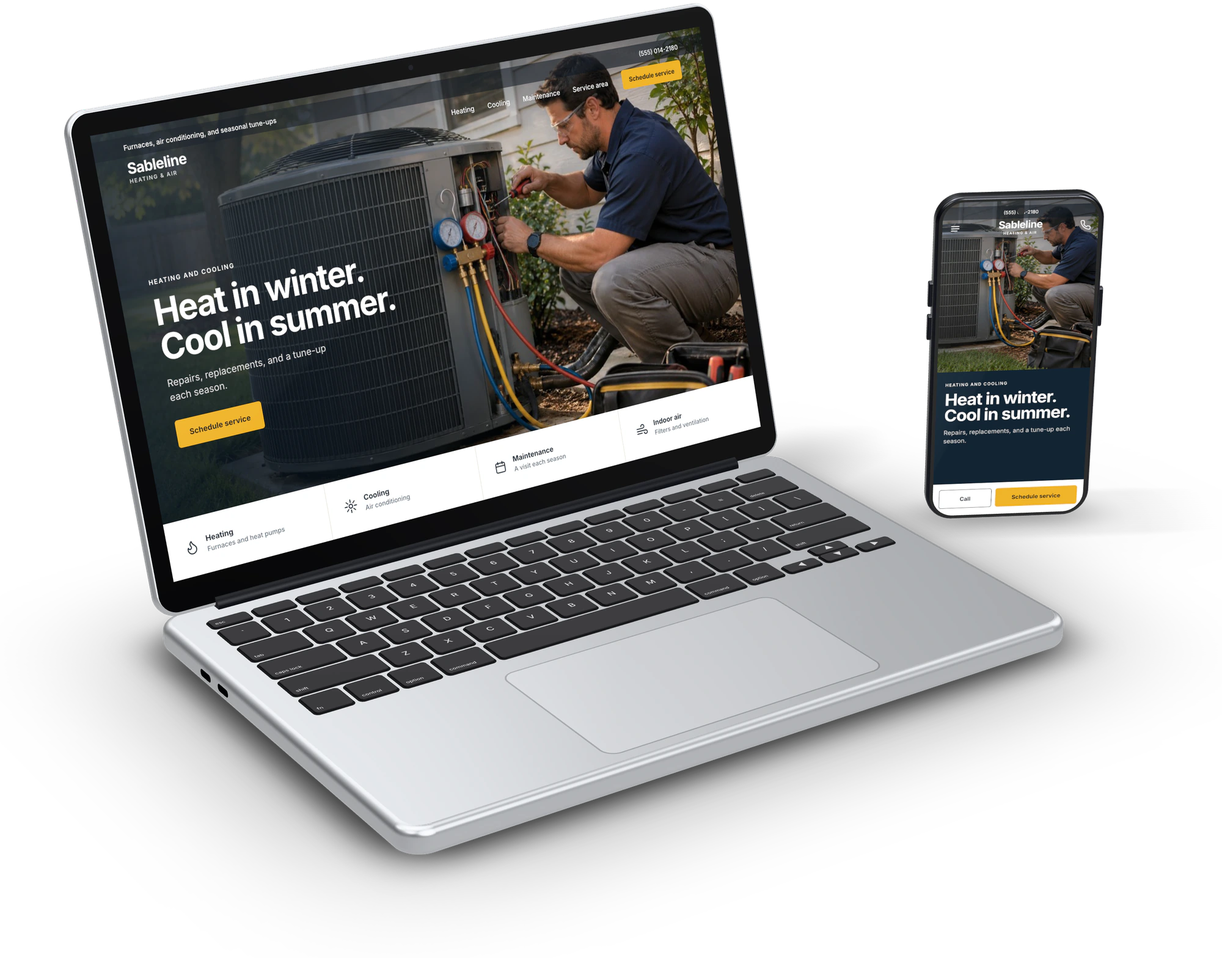
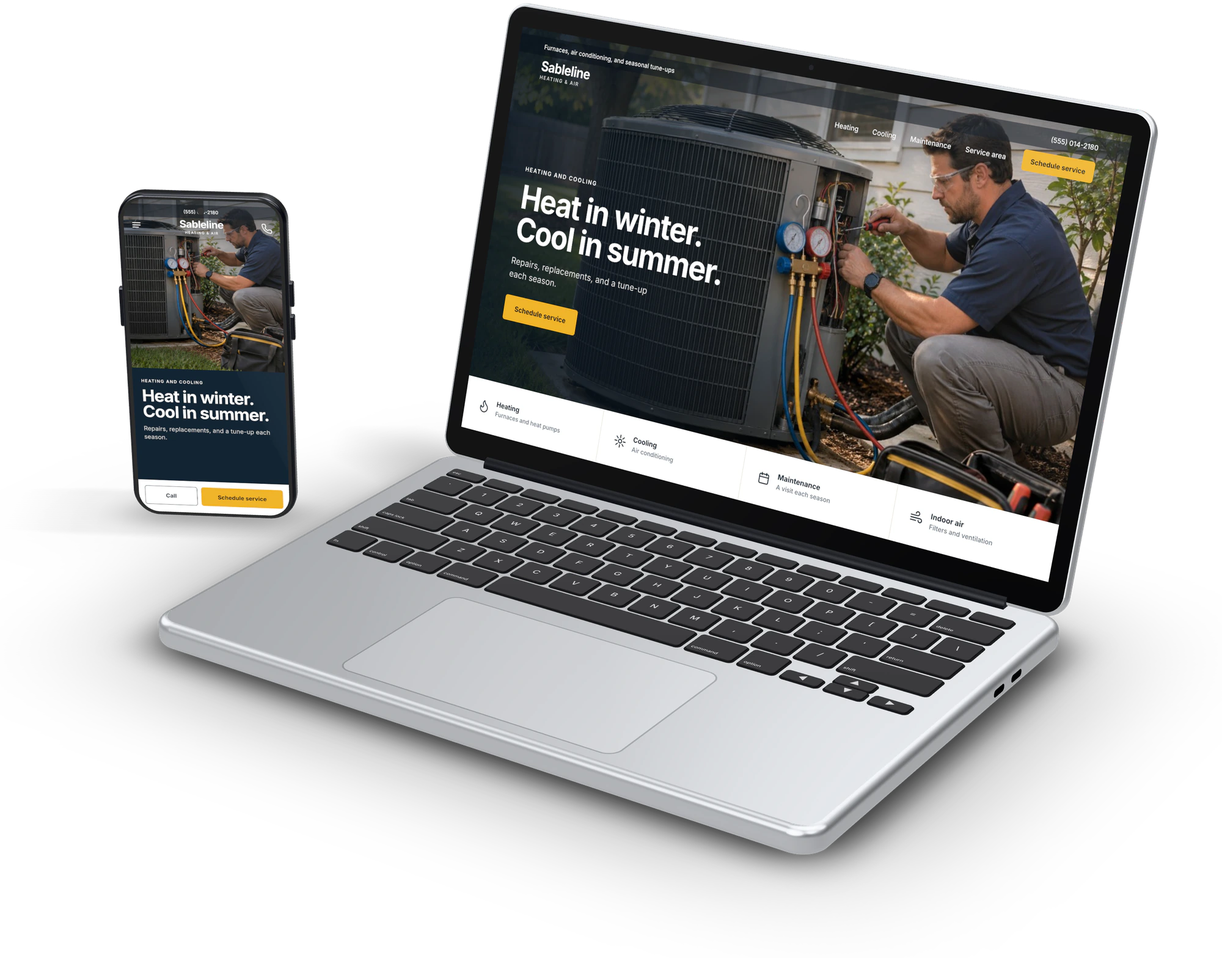
hero devices turned to face left, benefit ring mirrored with them
The owner's request (2026-11-22). The laptop and phone are the same
render mirrored: devices.html gains LAYOUT.facing, which draws the
screens and keyboard mirror-image, and render.mjs flips the frame, so
the pages and keys read the right way. Flipped back, the new render
matches the old one except the screens, the keys, and the floor shadow
(at most 2/255 alpha). The phone now stands on the laptop's left; the
image keeps its 2000x1568 size.

The benefit ring is mirrored too: start -5 instead of 5 (every icon
clear of the devices from -10 to -2 at every width), each benefit at
the mirror of its place, the side labels hanging the other way. README,
architecture notes, performance log, and the hero spec's order updated.

diff --git a/design/hero-mockup/scenes/devices.html b/design/hero-mockup/scenes/devices.html
@@ -5,9 +5,11 @@
     <title>Hero mockup: laptop and phone</title>
     <!--
       The home hero's device composition: a silver laptop in three-quarter view and an upright
-      phone to its right, showing the stored desktop and mobile screenshots, on a
+      phone beside it, showing the stored desktop and mobile screenshots, on a
       transparent background with soft grounding shadows. Rendered by ../render.mjs.
-      The devices are generic: no maker's logo, notch, or trade dress.
+      The devices are generic: no maker's logo, notch, or trade dress. The scene is modelled
+      turned to the right, with the phone at the laptop's right; LAYOUT.facing turns the
+      image to the left.
     -->
     <script type="importmap">
       {
@@ -45,6 +47,16 @@
 
       /** Composition. Angles in degrees; lengths in centimetres. */
       const LAYOUT = {
+        /**
+         * Which way the devices turn in the image. Everything below models them turned to the
+         * right: the camera at the laptop's front left, the phone at its right, the key light
+         * from the upper left. 'left' (the owner's request, 2026-11-22) renders that same scene
+         * with the screens and the keyboard drawn mirror-image, and render.mjs flips the frame:
+         * the right-facing image's exact mirror, shading and shadows included, with the pages
+         * and the keys reading the right way. The ports and the phone's buttons stay on the
+         * sides the camera sees.
+         */
+        facing: 'left',
         cameraAzimuth: -34,
         cameraElevation: 23,
         cameraDistance: 120,
@@ -72,6 +84,8 @@
       // Exploration: `?layout={"phone":{"x":20,"z":0,"extraYaw":10}}` overrides LAYOUT keys.
       const overrides = new URLSearchParams(location.search).get('layout');
       if (overrides) Object.assign(LAYOUT, JSON.parse(overrides));
+      /** The scene is drawn for a frame that render.mjs flips; see LAYOUT.facing. */
+      const mirrored = LAYOUT.facing === 'left';
       const PHONE = { width: 7.16, height: 14.76, depth: 0.8 };
       const LEGEND_FONT =
         'https://cdn.jsdelivr.net/npm/@fontsource/inter@5.1.0/files/inter-latin-500-normal.woff2';
@@ -89,6 +103,13 @@
           loadTexture(renderer, '/out/screen-desktop.png'),
           loadTexture(renderer, '/out/screen-mobile.png'),
         ]);
+        // Pages drawn back to front read the right way once the frame is flipped.
+        if (mirrored) {
+          for (const screen of [desktopScreen, mobileScreen]) {
+            screen.repeat.x = -1;
+            screen.offset.x = 1;
+          }
+        }
 
         const aluminium = new THREE.MeshPhysicalMaterial({
           color: '#d3d5d8',
@@ -278,6 +299,9 @@
 
           const keyboardBack = -D / 2 + 1.5;
           const keyboard = buildKeyboard(T, keyboardBack);
+          // Mirrored about the laptop's centre line, layout and legends both, for the flipped
+          // frame: esc stays top left and the arrows bottom right.
+          if (mirrored) keyboard.group.scale.x = -1;
           group.add(keyboard.group);
 
           // Trackpad: a glass-smooth panel framed by a thin chamfer line.
@@ -526,7 +550,7 @@
         softContact.update([ground, tightContact.group]);
         tightContact.update([ground, softContact.group]);
         renderer.render(scene, camera);
-        publish(renderer);
+        publish(renderer, { mirrored });
       } catch (error) {
         publishError(error);
       }

diff --git a/tests/e2e/hero.spec.ts b/tests/e2e/hero.spec.ts
@@ -168,7 +168,8 @@ test('one labelled benefit chip circles the devices', async ({ page }) => {
     'nothing to focus',
   ).toHaveCount(0);
 
-  // Clockwise from the right: the places the service chips used, one benefit in each.
+  // Clockwise from the right, one benefit in each place: the mirror of the order beside the
+  // right-facing devices, since the devices turned to the left.
   // One evaluate on the frame: Firefox crashes on evaluateAll from this named region.
   const order = await frame.evaluate((frame) =>
     Array.from(
@@ -177,12 +178,12 @@ test('one labelled benefit chip circles the devices', async ({ page }) => {
     ),
   );
   expect(order).toEqual([
-    'new-subscribers',
-    'time-saved',
-    'repeat-customers',
     'more-bookings',
-    'more-sales',
+    'repeat-customers',
+    'time-saved',
+    'new-subscribers',
     'new-inquiries',
+    'more-sales',
   ]);
 
   // Each chip shows its benefit's icon and its label, word for word, and nothing else.

diff --git a/design/hero-mockup/scenes/kit.js b/design/hero-mockup/scenes/kit.js
@@ -208,8 +208,14 @@ export function contactShadow(
   };
 }
 
-/** Publishes the finished frame for render.mjs, which polls `window.__rendered`. */
-export function publish(renderer) {
+/**
+ * Publishes the finished frame for render.mjs, which polls `window.__rendered`. A `mirrored`
+ * frame was drawn to be seen flipped left to right: render.mjs flips the PNG, losslessly, and
+ * the page shows the canvas flipped, so what it shows is what the asset will be.
+ */
+export function publish(renderer, { mirrored = false } = {}) {
+  if (mirrored) renderer.domElement.style.transform = 'scaleX(-1)';
+  window.__mirrored = mirrored;
   window.__rendered = renderer.domElement.toDataURL('image/png');
 }
 

diff --git a/docs/architecture.md b/docs/architecture.md
@@ -21,8 +21,8 @@ The Auralink Studio website is a statically generated Astro site. Every page is 
 | Favicon              | `public/favicon.svg` and `public/favicon.ico`, drawn by `design/favicon/render.mjs` from the owner's mark, `src/assets/aura-hero.svg`                                                  | The owner asked for the AURA mark as the favicon (2026-11-21). The mark alone, its one path unchanged: the full logo is about three times wider than tall, so its wordmark would be unreadable in a 16px tab. It sits on a rounded tile of `neutral` (`#09090b`), as in the navbar and on the About name card, because on its own its yellow is 1.4:1 against a light tab and its lower pixels fade at 16px. The tile, its corners (the name card's `rounded-md` proportion), and the margin are my pick, awaiting the owner. The ICO is a real icon file holding 16, 32, and 48px PNG renders of the SVG, for browsers and tools without SVG icons. Both replace Astro's starter icons; `BaseLayout` already linked both paths, so the head is unchanged. Redraw with `node design/favicon/render.mjs` (`design/favicon/README.md`) whenever the mark changes.                                                                                                                                                                                                                                                                                                                                                                                                                                                                                                                                                                                                                                                                                                                                                                                                                                                                                                                                                                                                                                                                                                                                                                                                                                                                                                                                                                                                                                                                                                                                                                                                                                                                                                                                                                                                                                                                                                                                                                                                                                                                                                                                                                                                                                             |
 | Primary button       | `src/components/ui/Button.astro`, with the `btn-lit` and `aura-lap` utilities in `src/styles/global.css`                                                                               | Lit from above, after the owner's reference (https://www.youtube.com/shorts/XldO61IcsX4): a gradient and four shadows (top light, bottom shade, contact, own-colour glow), flipped on press. The gradient shades downward, keeping the label at 4.5:1. daisyUI's `aura` makes one lap on appearance (skipped by `aura="hover"`: `aura-hover`), then fades in on hover or keyboard focus and fades out afterwards, pausing where it stopped so the next visit continues, and stays off under reduced motion (WCAG 2.2.2).                                                                                                                                                                                                                                                                                                                                                                                                                                                                                                                                                                                                                                                                                                                                                                                                                                                                                                                                                                                                                                                                                                                                                                                                                                                                                                                                                                                                                                                                                                                                                                                                                                                                                                                                                                                                                                                                                                                                                                                                                                                                                                                                                                                                                                                                                                                                                                                                                                                                                                                                                                                    |
 | Home hero            | `src/components/sections/Hero.astro`; image `src/assets/hero/laptop-phone.webp`                                                                                                        | Owner's brief (2026-11-17): copy left (about 45%), devices right (55%), stacked below `lg`. The headline is set at 10% of its column, a size chosen so the earlier headline's 17-character "brings them back." kept to one line in Mukta; the owner's copy of 2026-11-20 ("Your business works hard. Your website should, too.", four lines, the underline under "should, too") has shorter lines and keeps that size. Two things move on load, once each: the pencil underline (`PencilUnderline.astro`, `animate-pencil-draw`), drawn after 250 ms, and the benefit chips arriving on their ring (see "Hero orbit"). Both are already in place under reduced motion. Buttons change colour at once (`transition-none`); the CTA's aura waits for hover and resumes where it stopped.                                                                                                                                                                                                                                                                                                                                                                                                                                                                                                                                                                                                                                                                                                                                                                                                                                                                                                                                                                                                                                                                                                                                                                                                                                                                                                                                                                                                                                                                                                                                                                                                                                                                                                                                                                                                                                                                                                                                                                                                                                                                                                                                                                                                                                                                                                                      |
-| Hero image           | Rendered from `design/hero-mockup/` (three.js in headless Chromium), served as AVIF with WebP fallback                                                                                 | The screens show a fictional heating and cooling homepage, Sableline Heating & Air, from `design/hero-mockup/sample-site/` (captured 2026-11-18). Not a client or a real business. The owner asked for an HVAC website on the devices rather than one of their own. The owner's own projects are shown as screenshots in the home page's selected work section and on the work page instead (since 2026-11-21). The devices themselves are original 3D, with no maker's logo. Six widths, loaded eagerly with `fetchpriority="high"` and explicit dimensions. `render.mjs` crops to the visible pixels and refuses a frame that would cut a shadow.                                                                                                                                                                                                                                                                                                                                                                                                                                                                                                                                                                                                                                                                                                                                                                                                                                                                                                                                                                                                                                                                                                                                                                                                                                                                                                                                                                                                                                                                                                                                                                                                                                                                                                                                                                                                                                                                                                                                                                                                                                                                                                                                                                                                                                                                                                                                                                                                                                                         |
-| Hero orbit           | `src/components/ui/ServiceOrbit.astro` around the hero's devices; the `orbit` utility in `src/styles/global.css`                                                                       | Owner's choices (2026-11-18). Of three mock-ups, then benefit labels in the service chips' places: six chips from `heroBenefits` on a ring behind the devices, over a soft primary glow and two inner rings. Each chip is a Lucide outline icon with the benefit as its label. The labels say what the work is for, with no figures and no notifications. Long labels take the places with room, so the ring's order is not the list's order. More sales and Repeat customers are filled primary; the other four are white. The icons are decorative; the labels are text. On load the chips swing 150° into place and the labels fade in as they stop, over after 3.4 s. Nothing travels after that, or a label would slide behind the laptop. Once the ring has opened a light circles it, a lap in 10 s, pointer or not, touch screens too: past the five-second rule by the owner's decision (2026-11-18), like the services strip. Reduced motion: nothing moves. The chips rest from 5° at equal steps, in the narrow window (about 2° to 10°) where no device covers an icon; the hero suite checks icons and labels against the image. Pure CSS. Not Inspira UI's Orbit, which sets an orbit by duration, delay, and radius.                                                                                                                                                                                                                                                                                                                                                                                                                                                                                                                                                                                                                                                                                                                                                                                                                                                                                                                                                                                                                                                                                                                                                                                                                                                                                                                                                                                                                                                                                                                                                                                                                                                                                                                                                                                                                                                                        |
+| Hero image           | Rendered from `design/hero-mockup/` (three.js in headless Chromium), served as AVIF with WebP fallback                                                                                 | The screens show a fictional heating and cooling homepage, Sableline Heating & Air, from `design/hero-mockup/sample-site/` (captured 2026-11-18). Not a client or a real business. The owner asked for an HVAC website on the devices rather than one of their own. The owner's own projects are shown as screenshots in the home page's selected work section and on the work page instead (since 2026-11-21). The devices themselves are original 3D, with no maker's logo. Since 2026-11-22 they face left (the owner's request): the scene, modelled facing right, is drawn with its screens and keyboard mirror-image and the frame flipped, so devices, shading, and shadows are the earlier image's exact mirror, with the pages reading the right way. Six widths, loaded eagerly with `fetchpriority="high"` and explicit dimensions. `render.mjs` crops to the visible pixels and refuses a frame that would cut a shadow.                                                                                                                                                                                                                                                                                                                                                                                                                                                                                                                                                                                                                                                                                                                                                                                                                                                                                                                                                                                                                                                                                                                                                                                                                                                                                                                                                                                                                                                                                                                                                                                                                                                                                                                                                                                                                                                                                                                                                                                                                                                                                                                                                                        |
+| Hero orbit           | `src/components/ui/ServiceOrbit.astro` around the hero's devices; the `orbit` utility in `src/styles/global.css`                                                                       | Owner's choices (2026-11-18). Of three mock-ups, then benefit labels in the service chips' places: six chips from `heroBenefits` on a ring behind the devices, over a soft primary glow and two inner rings. Each chip is a Lucide outline icon with the benefit as its label. The labels say what the work is for, with no figures and no notifications. Long labels take the places with room, so the ring's order is not the list's order. More sales and Repeat customers are filled primary; the other four are white. The icons are decorative; the labels are text. On load the chips swing 150° into place and the labels fade in as they stop, over after 3.4 s. Nothing travels after that, or a label would slide behind the laptop. Once the ring has opened a light circles it, a lap in 10 s, pointer or not, touch screens too: past the five-second rule by the owner's decision (2026-11-18), like the services strip. Reduced motion: nothing moves. The chips rest from -5° (just above three o'clock) at equal steps, in the narrow window (about -10° to -2°) where no device covers an icon: the mirror of 5° and its 2° to 10° window while the devices faced right, with each benefit and its label's side mirrored too (2026-11-22). The hero suite checks icons and labels against the image. Pure CSS. Not Inspira UI's Orbit, which sets an orbit by duration, delay, and radius.                                                                                                                                                                                                                                                                                                                                                                                                                                                                                                                                                                                                                                                                                                                                                                                                                                                                                                                                                                                                                                                                                                                                                                                                                                                                                                                                                                                                                                                                                                                                                                                                                                                                                               |
 | Inner-page hero      | `src/components/sections/PageIntro.astro` on every page but the home page; the `page-hero` utility; `src/assets/aura-hero.svg`                                                         | Owner's request (2026-11-19): a dark hero on every page except the home page, its text a mix of yellow and white, with the logo's mark at a corner or side. The rest is my pick, awaiting the owner. The band is the navbar's `neutral`, so the two read as one masthead. The copy keeps the container's left edge: a `primary` eyebrow, the `h1` in white (`base-100`, like the logo's wordmark; `neutral-content` read grey beside the yellow) with the words passed as `highlight` in `primary`, a `primary` rule, and the description in `neutral-content`. The highlights are existing copy: "Auralink Studio", "your project.", and, since the hubs gained full headlines (2026-11-20), "work together." on Services and "the way your business works." on Industries. The mark is the owner's file (2026-11-19), unchanged: inlined (5.9 KB, 1.7 KB gzipped, on five pages) and trimmed to its artwork by the viewBox the component passes. It rests on the band's bottom edge at the right, beside the copy from `lg` and in a 10rem row of its own under the copy below `lg`, so it is never behind text. Behind it are a `primary` glow and three rings centred on that edge, which cuts them in half: the home orbit as a sun on the horizon, with three pixels like the mark's own on the outer ring. On load the glow fades in and the rings open, with the orbit's keyframes, the mark rises into place, and the pixels pop in: over after 2.3 s, once. The copy never moves. Reduced motion: nothing moves. Decorative and `aria-hidden`. Pure CSS. The contact page's cards gained top padding (`pt-16 lg:pt-20`): the white introduction this replaced gave them its own.                                                                                                                                                                                                                                                                                                                                                                                                                                                                                                                                                                                                                                                                                                                                                                                                                                                                                                                                                                                                                                                                                                                                                                                                                                                                                                                                                                                                                  |
 | Home services strip  | `src/components/sections/ServiceStrip.astro` between the hero and the services; `src/lib/service-strip.ts`                                                                             | After the owner's reference screenshot (2026-11-18): a full-width `primary` band with the names in `primary-content`, over a `neutral` band tilted 2.2 degrees behind it, showing above the yellow on the right and below it on the left, `--service-strip-rise` (half the width times tan(2.2deg)) deep at the edges. Top half `base-200` like the hero, bottom half the services band (`base-300` at 70%). The names run off both edges, with no fade. The `serviceCards` titles are a line of Mukta, the first word bold (700) and the rest light (300), with an eight-point asterisk between names, the divider from the owner's reference (2026-11-18), drawn in the component because Lucide's asterisk is six strokes. The names stay mixed weight, the owner's pick of three treatments that day, kept from the earlier white band after WPRiders; the reference sets every name bold. High Scale Media gave only the idea of a repeating services line. No client logos. CSS transform at 30px a second (`SERVICE_STRIP_SPEED_PX_PER_SECOND`); it pauses under the pointer and has no pause button (owner, 2026-11-18), so the keyboard cannot pause it. Reduced motion and no JavaScript show a static wrap. Repeats and asterisks are `aria-hidden`.                                                                                                                                                                                                                                                                                                                                                                                                                                                                                                                                                                                                                                                                                                                                                                                                                                                                                                                                                                                                                                                                                                                                                                                                                                                                                                                                                                                                                                                                                                                                                                                                                                                                                                                                                                                                                                             |
 | Home introduction    | `src/components/sections/AboutIntro.astro`, after the process and before the selected work, the target of the hero's About us (`#about`)                                               | The copy follows the "What we offer" section the owner gave as the reference (a screenshot, 2026-11-20); the photo keeps the Hub2B treatment ("Space for Freelancers and Creative People"), which the owner preferred to the reference's soft corners (2026-11-20). From `lg` the portrait takes five twelfths at the left on a `primary` frame its own size, offset down and right by the room made for it, with a name card over the photo's lower right corner that renders only once `owner.name` is set in `src/data/site.ts` (the name and role on white, a hairline, and the owner's mark, `src/assets/aura-hero.svg`, on a `neutral` tile); the copy takes the other seven twelfths: eyebrow, heading, rule, paragraph, the six `aboutHighlights` in two columns from `sm` (each a `neutral` disc with a `primary` check, an h3, and one sentence), and the large outlined secondary "Learn more" button, the hero's "About us", 32px below them (48px from `md`). Below `lg` the copy comes first. No JavaScript, and nothing in the section moves. The video is deferred (see "Open decisions").                                                                                                                                                                                                                                                                                                                                                                                                                                                                                                                                                                                                                                                                                                                                                                                                                                                                                                                                                                                                                                                                                                                                                                                                                                                                                                                                                                                                                                                                                                                                                                                                                                                                                                                                                                                                                                                                                                                                                                                                  |

diff --git a/docs/performance.md b/docs/performance.md
@@ -73,6 +73,7 @@ Transfer breakdown (median mobile run): document 1.1 KB, script 0 KB, stylesheet
 - 2026-11-20, the contact page's two tabs and Calendly's scheduler (`node scripts/perf-audit.mjs --no-build --sample`, 3 runs, median; the first audit under the first-party accounting below): performance 1 on mobile and desktop on every route. On `/contact/`, LCP 903 ms mobile and 242 ms desktop (the hero's heading, as before), CLS 0.000, TBT 0 ms, TTI 903 ms and 242 ms. The page's own transfer is 94.8 KB in 6 requests on both devices, from 89.1 KB: the tabs' and the scheduler's scripts are inlined with the form's (the page still loads no JavaScript file of its own), and the hero's two links and the booking panel add to the document. Calendly's iframe then fetches about 3.6 MB from its own and Stripe's origins (a 1.3 MB stylesheet and 1.8 MB of scripts among 15 requests, 21 requests in all on the page), all after the page's `load` event, so none of the page's metrics move. Best practices score 0.77: Lighthouse's `third-party-cookies` audit fails on the cookies Calendly's page and Stripe set, and `inspector-issues` reports the same cookies. Accessibility and SEO 1. The other seven sampled routes are unchanged (the home page 137.4 KB and 143.7 KB in 8 requests). All budgets met under the allowance for `/contact/` recorded below.
 - 2026-11-21, Google Tag Manager's snippet in every page's head (`node scripts/perf-audit.mjs --no-build --sample`, 3 runs, median; the owner's decision, `docs/architecture.md`, "Analytics: Google Tag Manager"): performance 1 on mobile and desktop on every route, TBT 0 ms, CLS 0.000, accessibility and SEO 1, best practices 1 (0.77 on `/contact/`, Calendly's cookies as before). Every page now makes one third-party request, the container script `gtm.js` (116.4 KB, Google's bytes, reported in parentheses), and nothing more: the container fires no tags yet. The page's own transfer grows by about half a kilobyte, the snippet in the document (the home page 137.9 KB and 144.2 KB in 9 requests, from 137.4 KB and 143.7 KB in 8). The script loads `async`, so it blocks nothing, but under simulated throttling it shares the link with the stylesheet and the fonts: on five of the seven sampled inner pages FCP and LCP (the hero's heading) read 1052 ms on mobile where they read 902-903 ms, and 282-283 ms on desktop where they read 242-243 ms; `/industries/` and `/services/` kept 902-903 ms and 243 ms, and the home page's LCP (the hero's device image) read 1652 ms and 402 ms, from 1802 ms and 405 ms. All inside the budgets. `/contact/` is at 22 requests, 17 third-party (Calendly's 16 and the container script), 95.2 KB of its own. All budgets met, with the default third-party budget raised as recorded below. One mobile run of `/contact/` in a first attempt of this audit ended in Lighthouse's `ERRORED_DOCUMENT_REQUEST` (a 404 reported for the page the preview server was serving); the route's audit was repeated on its own and then the whole sample, 48 runs, without it recurring.
 - 2026-11-21, the selected work back on the home page as three screenshot cards on the near-black band, and the new work page (`node scripts/perf-audit.mjs --no-build --routes=/,/work/`, 3 runs, median; the owner's brief, `docs/content-strategy.md`, "Selected work and the work page"): performance 1 on mobile and desktop on both routes, accessibility, best practices, and SEO 1, TBT 0 ms, CLS 0.000. The home page's LCP is still the hero's device image, 1653 ms mobile and 403 ms desktop; its own transfer is 141 KB in 9 requests on mobile and 147.3 KB in 9 on desktop (from 137.9 KB and 144.2 KB): about 3 KB more in the document for the section's markup, and the three screenshots, lazy and far below the first screen, were not fetched in these runs. `/work/`, a page of text and three lazy screenshots with no script of its own (measured again with three after the fourth project was removed the same day; the figures are from that run), has LCP 1053 ms mobile and 283 ms desktop (the hero's heading), 138.1 KB in 7 requests on mobile and 167.8 KB in 8 on desktop: the mobile run fetched the first screenshot (43.2 KB as AVIF), near enough to the first screen to load, and the desktop run the first two (43.2 KB and 30.4 KB); the other screenshots wait until they come near. The screenshots are 4:3 with their dimensions reserved, so loading them moves nothing. One third-party request on each, the container script, as before. All budgets met.
+- 2026-11-22, the hero's devices turned to face left, the benefit ring mirrored with them (`node scripts/perf-audit.mjs --routes=/`, 3 runs, median; the owner's request, `docs/architecture.md`, "Hero image"): performance 1 on mobile and desktop, accessibility, best practices, and SEO 1, TBT 0 ms, CLS 0.000. LCP is still the hero's device image, 1653 ms mobile and 407 ms desktop (from 1653 ms and 403 ms). The image keeps its pixel size, so its reserved space is unchanged; as AVIF it is 18.7 KB on mobile and 25.1 KB on desktop, about 0.2 KB less than before. The page's own transfer is 140.7 KB in 9 requests on mobile and 147.1 KB in 9 on desktop (from 141 KB and 147.3 KB). The one third-party request is still the container script, now 126.6 KB, which this change does not affect. All budgets met.
 
 ## Budgets (`lighthouse.budgets.json`)
 

diff --git a/design/hero-mockup/README.md b/design/hero-mockup/README.md
@@ -1,6 +1,6 @@
 # Hero mockup: laptop and phone
 
-Editable source for `src/assets/hero/laptop-phone.webp`, the device image in the home page hero (`src/components/sections/Hero.astro`): a silver laptop in three-quarter view and an upright phone beside it, on a transparent background with soft contact and cast shadows. The devices are generic, with no maker's logo or trade dress.
+Editable source for `src/assets/hero/laptop-phone.webp`, the device image in the home page hero (`src/components/sections/Hero.astro`): a silver laptop in three-quarter view and an upright phone beside it, on a transparent background with soft contact and cast shadows. The devices are generic, with no maker's logo or trade dress. Both turn to the left, with the phone on the laptop's left (the owner's request, 2026-11-22; see `facing` under "Changing it").
 
 The screens show a fictional heating and cooling homepage, **Sableline Heating & Air**, drawn in `sample-site/` on 2026-11-18. The owner asked for the devices to show a construction or HVAC website rather than one of their own. HVAC was used because a tune-up each season is the return visit the hero's email line is about. It is not a client, a result, or a real business. The phone number is in the fictional 555 range. The person in the photograph is not an employee and does not endorse the sample or Auralink Studio. The hero's alt text calls it a sample. Do not describe the screen as client work.
 
@@ -35,7 +35,8 @@ The devices step fails if anything visible touches the edge of the frame, becaus
 
 - Screen content: edit `sample-site/`, run `--only=capture`, then run the pipeline. The capture and screens steps refuse a file of any other size, because the device displays map each screenshot across the whole screen.
 - Composition: change `LAYOUT` in `scenes/devices.html` (camera angle and distance, phone position and turn). The page also merges JSON from a `?layout=` query parameter into `LAYOUT`, for scripted side-by-side comparisons.
-- After any change to the devices' outline or the image's proportions, run `npx playwright test tests/e2e/hero.spec.ts`. The benefit icons around the devices, and the labels beside them, rest in places tuned to this image, and that suite fails when a device covers an icon or a label. If it does, change `start` on `ServiceOrbit` in `src/components/sections/Hero.astro` until it passes at every width; 0 to 59 covers every placing of six icons. Then check where each label sits (`order` and `namePlaces` in `src/components/ui/ServiceOrbit.astro`). If nothing passes, the ring needs different room (`--orbit-above` and `--orbit-below` in the hero) or smaller chips.
+- Direction: `LAYOUT.facing` sets the way the devices turn. The scene and the rest of `LAYOUT` describe them turned to the right, as modelled. `'left'` draws the screens and the keyboard mirror-image, and `render.mjs` flips the frame, so the image is the right-facing one's exact mirror, light and shadows included, with the pages and the keys reading the right way. `?layout={"facing":"right"}` renders the right-facing image. Flipping the image moves the gaps the benefit icons rest in, so mirror the ring with it (next point): `start` becomes its negative, place k takes what place 3 - k (mod 6) had in `order` and `namePlaces`, and the two side labels hang the other way.
+- After any change to the devices' outline or the image's proportions, run `npx playwright test tests/e2e/hero.spec.ts`. The benefit icons around the devices, and the labels beside them, rest in places tuned to this image, and that suite fails when a device covers an icon or a label. If it does, change `start` on `ServiceOrbit` in `src/components/sections/Hero.astro` until it passes at every width; -30 to 29 covers every placing of six icons and keeps the first place, whose label hangs to the right, nearest three o'clock. Then check where each label sits (`order` and `namePlaces` in `src/components/ui/ServiceOrbit.astro`). If nothing passes, the ring needs different room (`--orbit-above` and `--orbit-below` in the hero) or smaller chips.
 
 The captures are the sample pages at those viewports, with no browser chrome. Change the name, the phone number, or the photograph only in `sample-site/`, and keep the page labelled as a sample.
 
